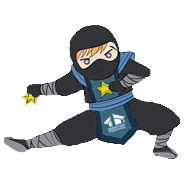
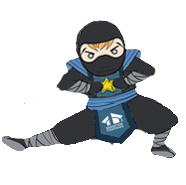
Added crouch shooting animation

diff --git a/Source/js/game/objects.js b/Source/js/game/objects.js
@@ -23,6 +23,7 @@ define(['globalConstants'], function (Constant) {
 		var images = {
 			straight: new Image(),
 			crouchLeft: new Image(),
+			crouchLeftShoot: new Image(),
 			crouchRight: new Image(),
 			shootLeft: new Image(),
 			shootRight: new Image(),
@@ -39,6 +40,7 @@ define(['globalConstants'], function (Constant) {
 			// Initialize images
 			images.straight.src = imagePath + "/Ninja-Straight.png";
 			images.crouchLeft.src = imagePath + "/Ninja-Crouch-Left.png";
+			images.crouchLeftShoot.src = imagePath + "/Ninja-Crouch-Left-Shoot.png";
 			images.crouchRight.src = imagePath + "/Ninja-Crouch-Right.png";
 			images.shootLeft.src = imagePath + "/Ninja-Shoot-Left.png";
 			images.shootRight.src = imagePath + "/Ninja-Shoot-Right.png";
@@ -50,7 +52,7 @@ define(['globalConstants'], function (Constant) {
 		
 		Ninja.prototype = {
 			jump: function () {
-				if (this.state != "steady") {
+				if (this.state == "jump" || this.state == "fall") {
 					return;
 				}
 
@@ -94,17 +96,24 @@ define(['globalConstants'], function (Constant) {
 		        }
 			},
 	       	crouch: function () {
-				if(this.y > Constant.boundry.bottom - 20) {
+				if (this.state == "steady") {
+					this.state = "crouch";
 					this.image = images.crouchLeft;
 				}
 	        },
 			shoot: function () {
 				var that = this;
+				var previousImg = this.image;
 
-	            this.image = images.shootLeft;
+				if (this.state == "crouch") {
+					this.image = images.crouchLeftShoot;
+				}
+				else {
+		            this.image = images.shootLeft;
+				}
 
 	            setTimeout(function () {
-	            	that.image = images.straight;  
+	            	that.image = previousImg;  
 	            }, 100);
 	        }
 		}
